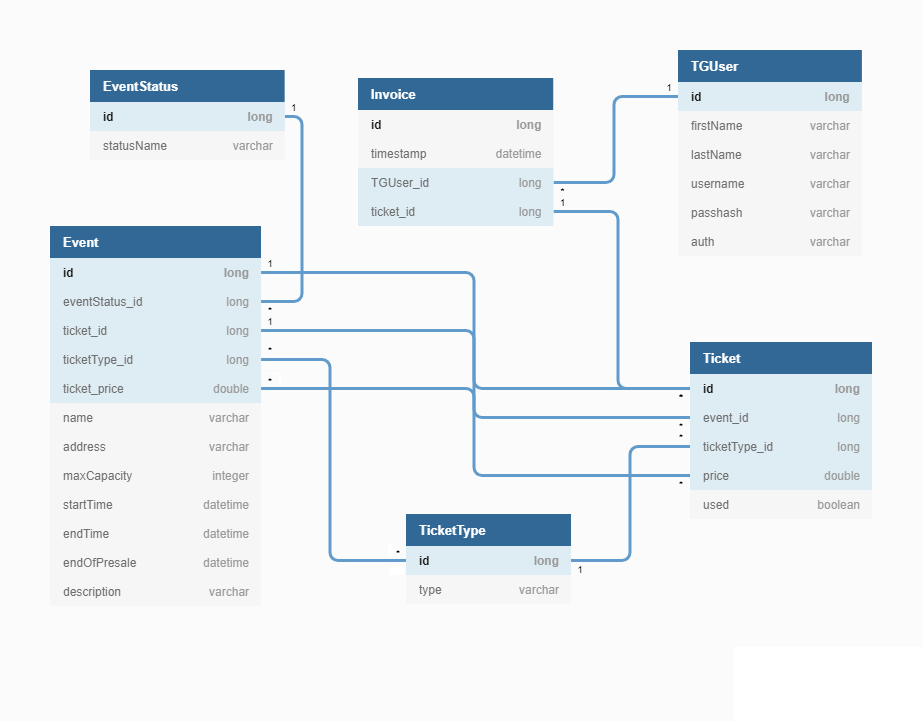
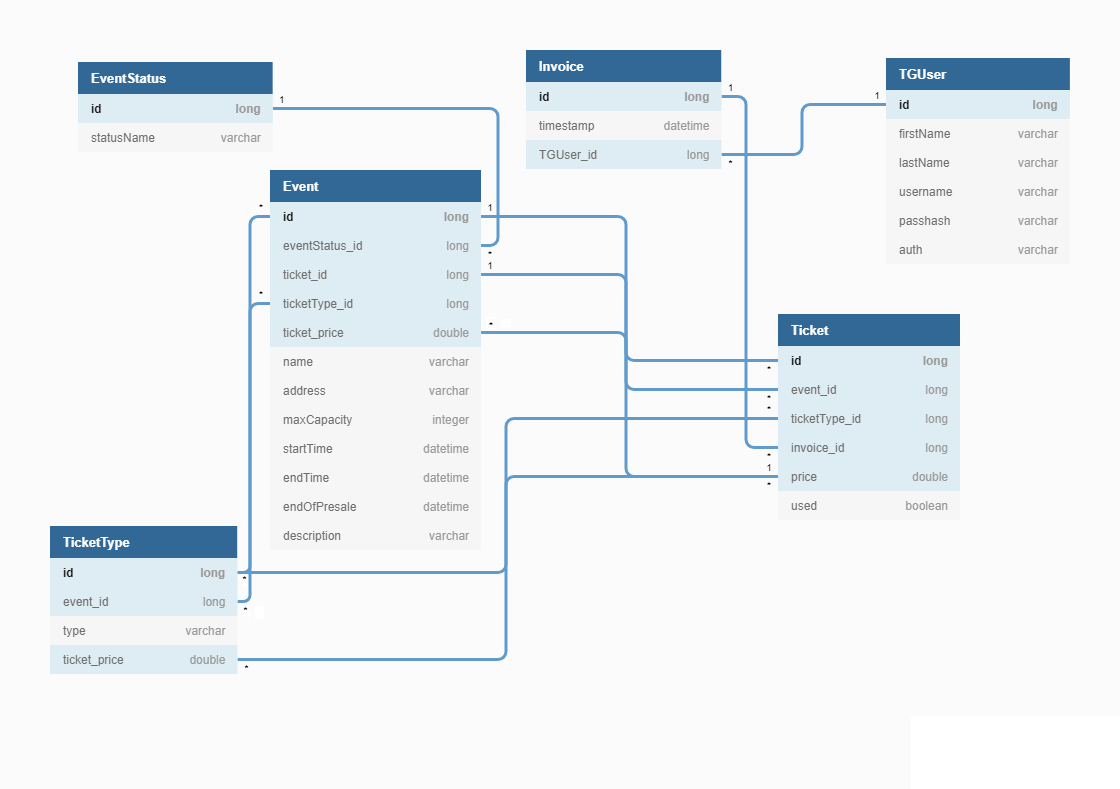
Päivitetty tietokantakaavio & Event- ja EventStatus-luokat

Changed region(s): [[0.0303, 0.061, 0.9707, 0.8544], [0.8797, 0.3356, 0.9101, 0.3662]]

diff --git a/src/main/java/fi/paikalla/ticketguru/Entities/Event.java b/src/main/java/fi/paikalla/ticketguru/Entities/Event.java
@@ -2,11 +2,14 @@ package fi.paikalla.ticketguru.Entities;
 
 import org.springframework.data.jpa.domain.AbstractPersistable;
 import javax.persistence.Entity;
+import javax.persistence.OneToMany;
+
 import lombok.Data;
 import lombok.AllArgsConstructor;
 import lombok.NoArgsConstructor;
 import java.time.*;
 import java.util.HashMap;
+import java.util.*;
 
 @Entity
 @Data
@@ -14,16 +17,16 @@ import java.util.HashMap;
 @NoArgsConstructor
 public class Event extends AbstractPersistable<Long> {
 	
-	private String name;
-	private String address;
-	private Integer maxCapacity;
-	private LocalDateTime startTime;
-	private LocalDateTime endTime;
-	private LocalDateTime endOfPresale;
-	private EventStatus status;
-	private String description;
-	//@OneToMany(mappedBy="event") // tämä odottaa sitä, että on luotu Ticket-olio
-	// private List<Ticket> tickets = new ArrayList<>();	
+	private String name; // tapahtuman nimi, esim. 'Ruisrock' tai 'Savonlinnan Oopperajuhlat'
+	private String address; // tapahtuman osoite
+	private Integer maxCapacity; // maksimipaikkamäärä, tickets-listan koko ei voi olla tätä suurempi
+	private LocalDateTime startTime; // tapahtuman alkuaika (pvm ja kellonaika)
+	private LocalDateTime endTime; // tapahtuman loppuaika (pvm ja kellonaika)
+	private LocalDateTime endOfPresale; // ennakkomyynnin loppuminen (pvm ja kellonaika)
+	private EventStatus status; // tapahtuman status
+	private String description; // tapahtuman kuvaus
+	@OneToMany(mappedBy="event")
+	private List<Ticket> tickets = new ArrayList<>(); // tätä voi vielä selventää esim. erittelemällä ennakkoon myydyt ja oviliput omille listoilleen	
 	private HashMap<TicketType, Double> ticketPrices; // tähän tilaisuuteen saatavilla olevat lipputyypit ja niiden hinnat
 
 }

diff --git a/src/main/java/fi/paikalla/ticketguru/Entities/EventStatus.java b/src/main/java/fi/paikalla/ticketguru/Entities/EventStatus.java
@@ -12,5 +12,5 @@ import lombok.NoArgsConstructor;
 @AllArgsConstructor
 public class EventStatus extends AbstractPersistable<Long> {
 
-	private String statusName;
+	private String statusName; // tapahtuman tilanne: 'järjestetään', 'peruttu' tai 'siirretty'
 }
